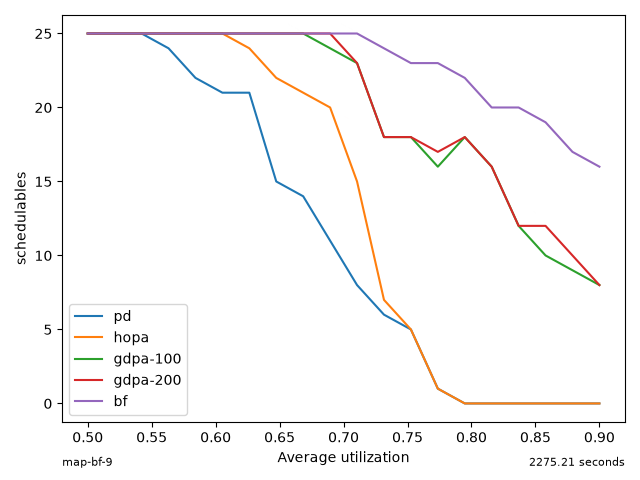
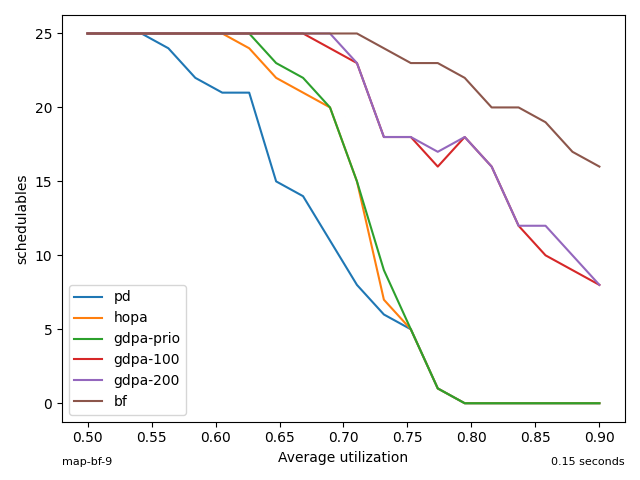
regenerate map-bf-9 diagnostics after merging partial runs
merge_methods.py now rebuilds the in-directory schedulables/efficiency PNGs
from the merged spreadsheets, so a partially-run method set (e.g. gdpa-prio)
leaves the results looking like a single full run.

diff --git a/workspace/framework_paper/map-bf/merge_methods.py b/workspace/framework_paper/map-bf/merge_methods.py
@@ -13,9 +13,13 @@ Usage (from ``code/``):
 """
 
 import argparse
+import time
 from pathlib import Path
 
+import numpy as np
 import pandas as pd
+
+from examples.evaluation import SchedRatioEval
 
 NAME = "map-bf-9"
 SUFFIXES = ("schedulables", "times", "times_success")
@@ -32,12 +36,32 @@ def merge(target_file, source_files, order):
     return df[cols]
 
 
+def regenerate_diagnostics(target, labels, n_systems):
+    """Rebuild the in-directory PNGs from the merged spreadsheets."""
+    sched = pd.read_excel(target / f"{NAME}_schedulables.xlsx", index_col=0)[list(labels)]
+    succ = pd.read_excel(target / f"{NAME}_times_success.xlsx", index_col=0)[list(labels)]
+    results = sched.to_numpy(dtype=float)
+    success_sums = np.nan_to_num(succ.to_numpy(dtype=float)) * results
+
+    runner = SchedRatioEval(NAME, labels=list(labels), funcs=[None] * len(labels),
+                            systems=[None] * n_systems,
+                            utilizations=sched.index.to_numpy(), threads=1,
+                            output_dir=str(target))
+    runner.start = time.time()
+    runner._save(results, "schedulables")
+    runner._efficiency_chart(results, success_sums)
+
+
 def main():
     parser = argparse.ArgumentParser(description=__doc__,
                                      formatter_class=argparse.RawDescriptionHelpFormatter)
     parser.add_argument("--target", required=True, help="directory with the full results")
     parser.add_argument("--source", nargs="+", required=True,
                         help="directory(ies) with partial runs to merge in")
+    parser.add_argument("--systems", type=int, default=25,
+                        help="number of systems (for the efficiency chart; default: 25)")
+    parser.add_argument("--no-diagnostics", action="store_true",
+                        help="do not regenerate the in-directory PNGs")
     args = parser.parse_args()
 
     target = Path(args.target)
@@ -49,6 +73,12 @@ def main():
         df = merge(target_file, source_files, ORDER)
         df.to_excel(target_file)
         print(f"{target_file}: {list(df.columns)}")
+
+    if not args.no_diagnostics:
+        labels = tuple(pd.read_excel(target / f"{NAME}_schedulables.xlsx",
+                                     index_col=0).columns)
+        regenerate_diagnostics(target, labels, args.systems)
+        print(f"{target}: regenerated diagnostics (schedulables, efficiency)")
 
 
 if __name__ == "__main__":
